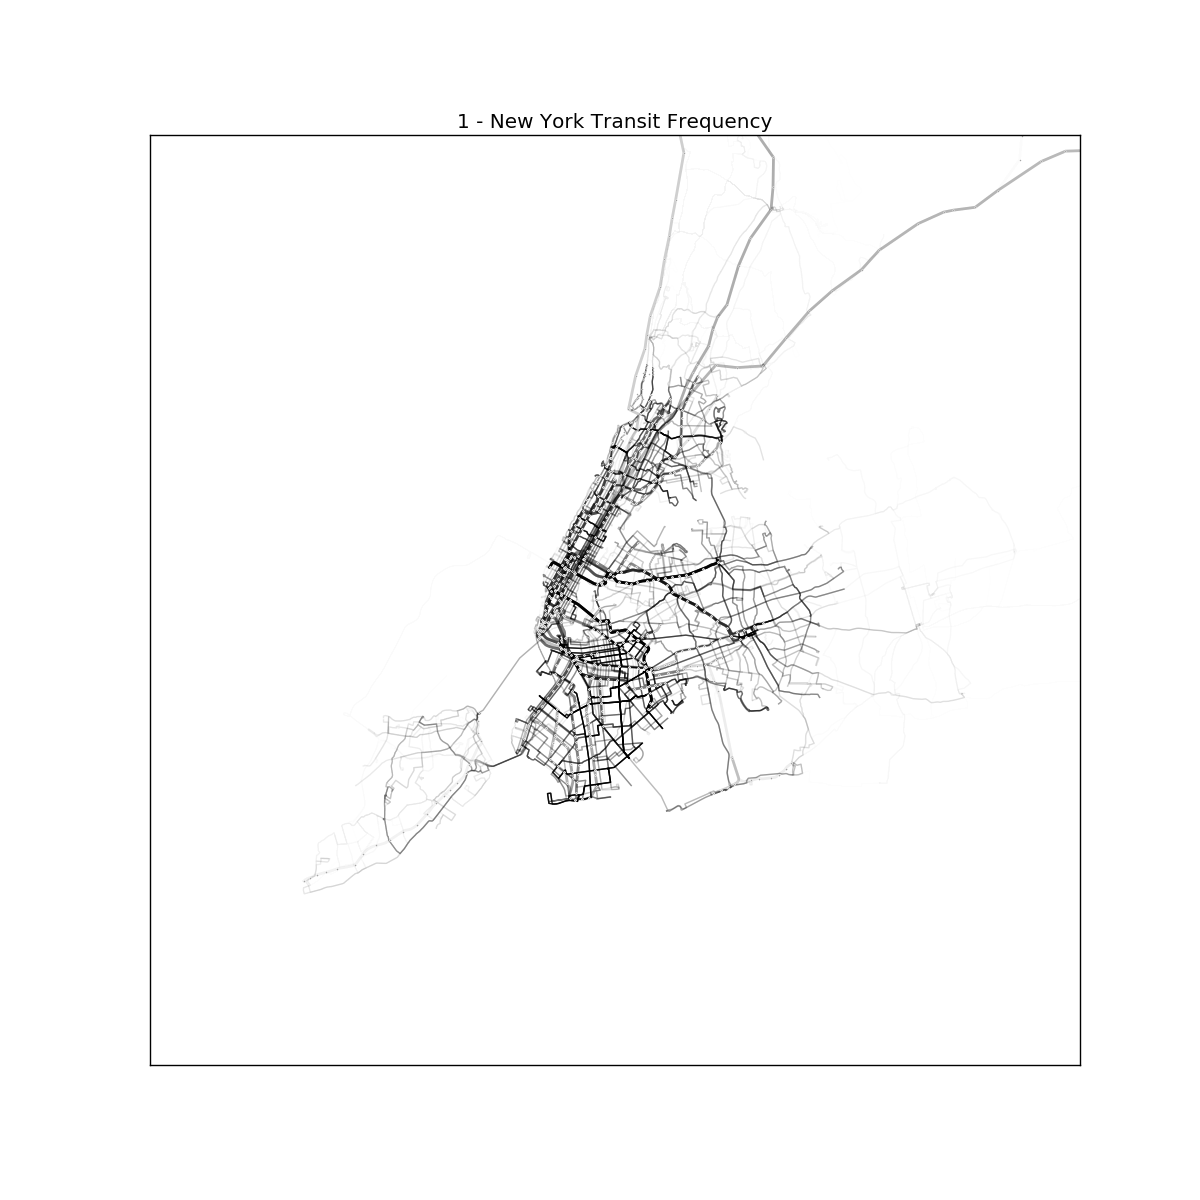
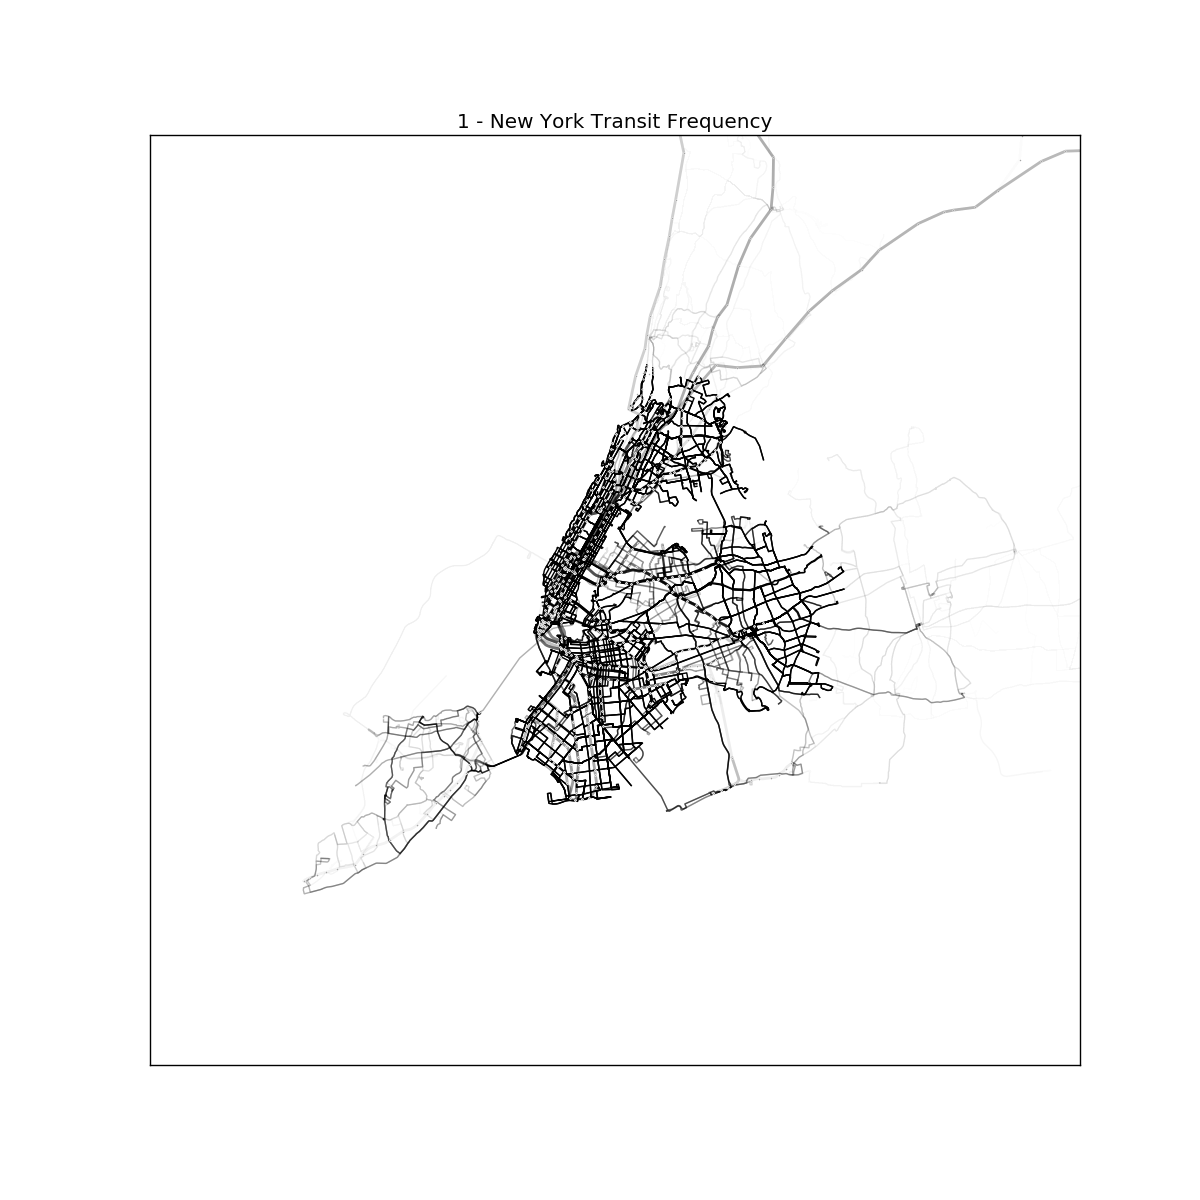
Fixed validTrips calculation

Changed region(s): [[0.3083, 0.3083, 0.7092, 0.7092], [0.6475, 0.6167, 0.6783, 0.6475], [0.2467, 0.7092, 0.2775, 0.74]]

diff --git a/Frequent Map/1 - New York/Plotting Code/plot.py b/Frequent Map/1 - New York/Plotting Code/plot.py
@@ -51,7 +51,7 @@ def getData(folderList, shapes, trips, stopTimes, calendar, frequencies):
         num_validshapes = trips[trips.shape_id.isin(shapes.shape_id)].groupby('route_id').size()
         num_missingshapes = num_shapes - num_validshapes
         percent_missingshapes = num_missingshapes / num_shapes * 100
-        print('Missing data from ' + ', '.join(folderList) + ':')
+        print('Missing data from ' + folder + ':')
         num_missingshapesList = num_missingshapes[num_missingshapes != 0]
         if num_missingshapes.empty:
             print(num_missingshapes[num_missingshapes != 0])
@@ -64,10 +64,17 @@ def getData(folderList, shapes, trips, stopTimes, calendar, frequencies):
 def getNumTrips(trips, stopTimes, calendar, frequencies):
     validFreq = pd.DataFrame()
 
-    # Grab the number of trips made outside min and max hour.
-    tooEarly = stopTimes['arrival_time'] < base_mintime
-    tooLate = stopTimes['departure_time'] > base_maxtime
-    invalidTrips = stopTimes[(tooEarly | tooLate)].groupby('trip_id').size()
+    # Only grab the first stop for every trip.
+    smallStopTimes = stopTimes.sort_values(['arrival_time']).groupby(['trip_id']).first().reset_index()[['trip_id', 'arrival_time']]
+    invalidTrips = pd.DataFrame()
+
+    # Grab the trips that are made outside the min and max times.
+    tooEarly = smallStopTimes['arrival_time'] < '{0:0>2}:00:00'.format(base_minhour)
+    tooLate = smallStopTimes['arrival_time'] > '{0:0>2}:00:00'.format(base_maxhour)
+    if base_minhour < base_maxhour:
+        invalidTrips = smallStopTimes[(tooEarly | tooLate)]
+    else:
+        invalidTrips = smallStopTimes[(tooEarly & tooLate)]
 
     # Add frequency information.
     if not frequencies.empty:
@@ -88,7 +95,7 @@ def getNumTrips(trips, stopTimes, calendar, frequencies):
 
         # Remove invalid trips that have valid entries in frequencies.txt.
         in_freq = invalidTrips.index.isin(validFreq.index)
-        print(invalidTrips[in_freq])
+        print(invalidTrips[in_freq]
         invalidTrips = invalidTrips[~in_freq]
 
     # Filter out the invalid trips.
